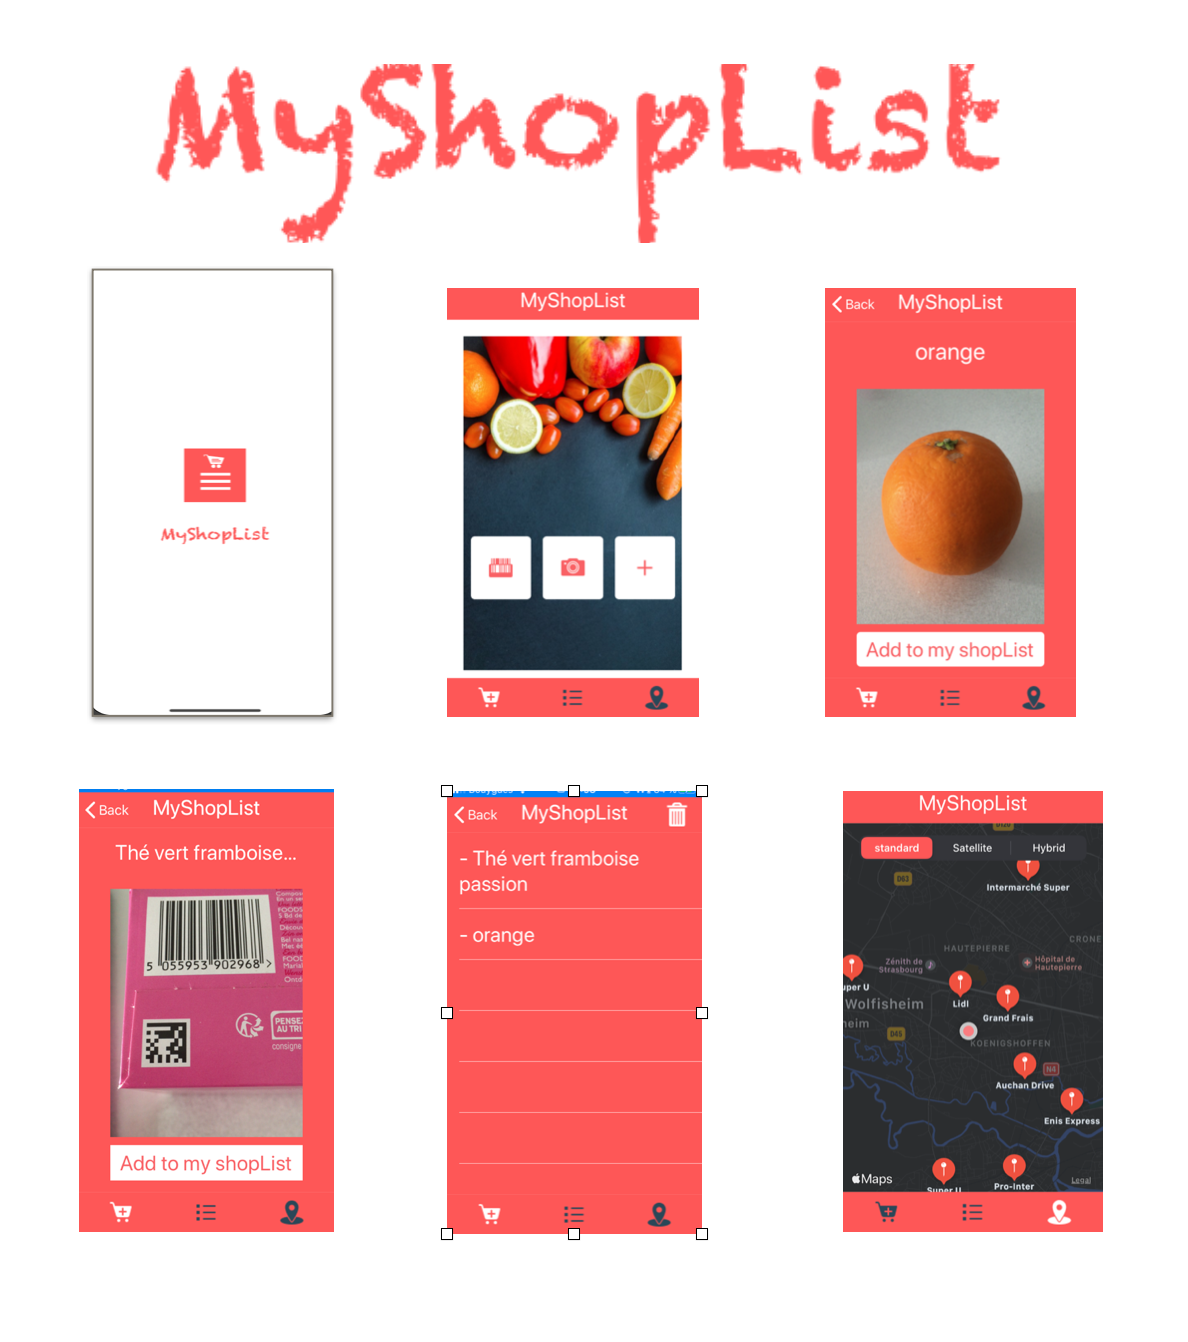
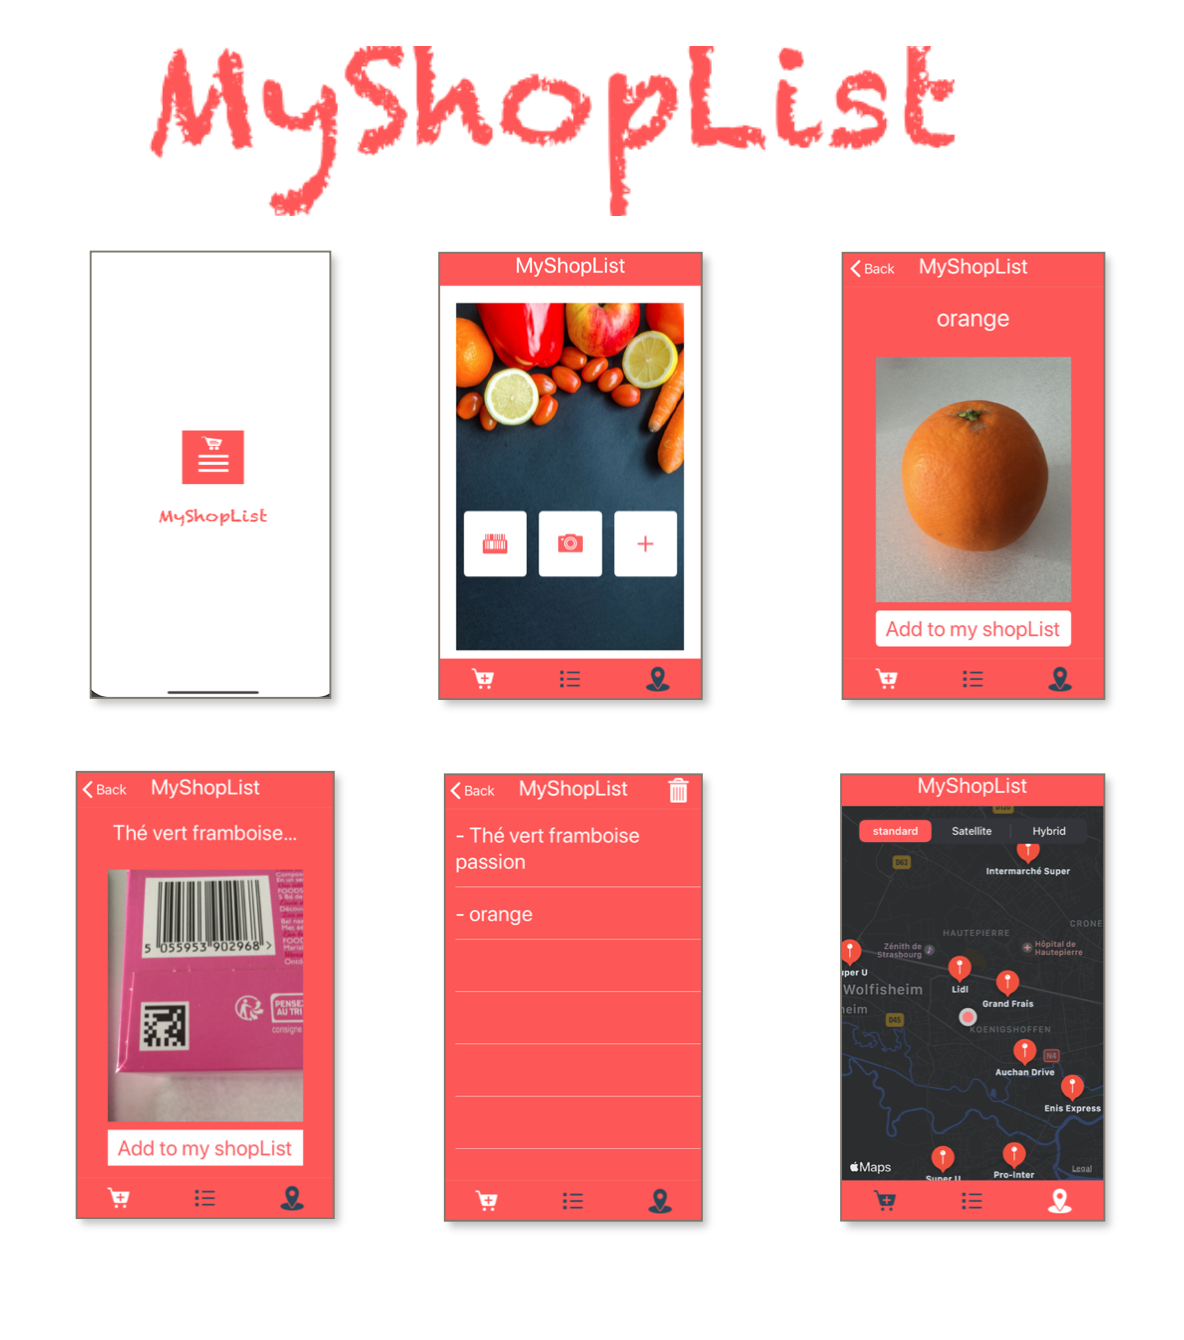
change images MyShopList

diff --git a/myshoplist.html b/myshoplist.html
@@ -43,7 +43,7 @@
 									<span class="date">Février, 2020</span>
 									<h1>MyShopList</h1>
 								</header>
-								<a href="#" class="image main"><img src="images/myshoplistIntro.png" alt="" /></a>
+								<a href="#" class="image main"><img src="images/maquetteMyShopList.png" alt="" /></a>
 
 											<h3>MyShopList est une application iOS qui vous permet de</h3>
 											<ul>
